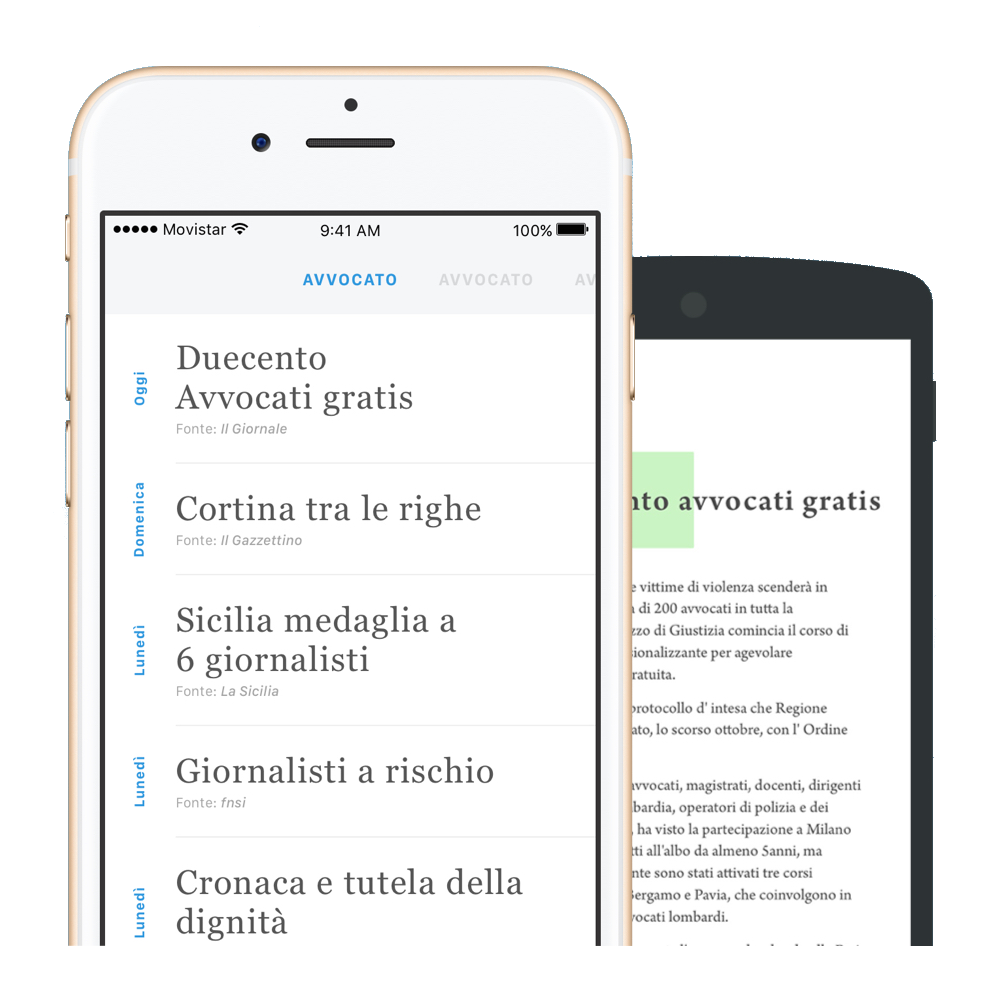
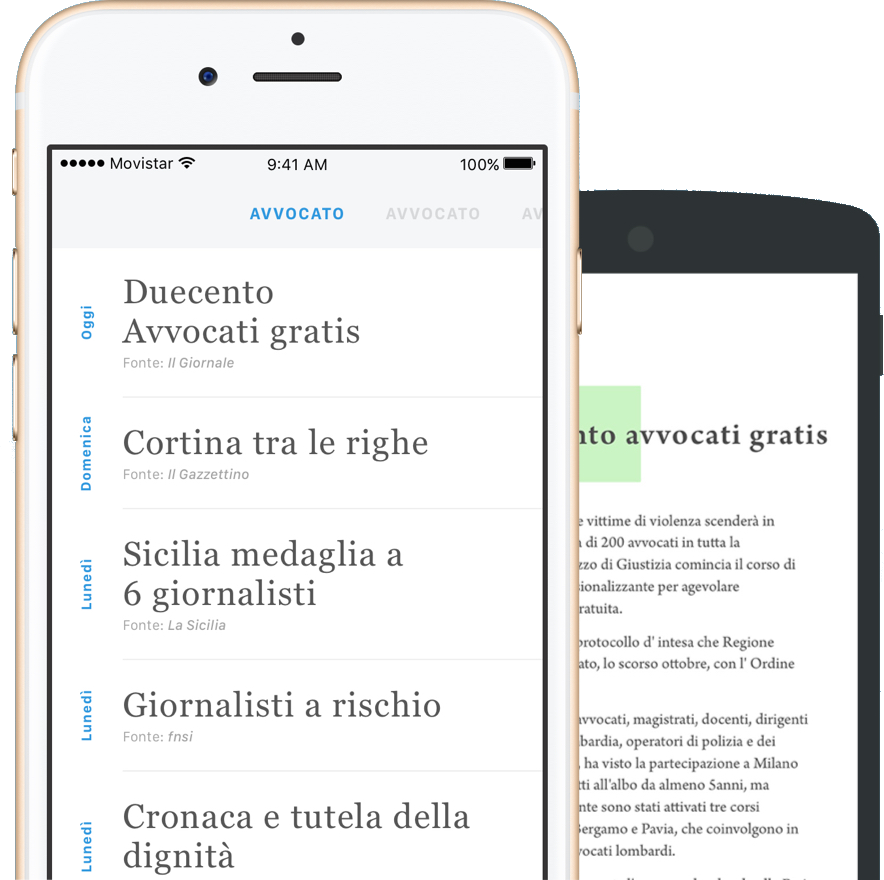
Align photos properly

Changed region(s): [[0.0, 0.0, 1.0, 1.0]]

diff --git a/index.html b/index.html
@@ -58,12 +58,12 @@
           <h1 class="text-center hero-text pb-3">Your jobs, <span class="hero-text-inner">
               <strong>our news.</strong></span>
           </h1>
-          <p class="opacity-light ps-4 ps-md-4 pb-1 pb-md-5">
+          <p class="opacity-light ms-md-5 ms-sm-0 ps-4 ps-md-5 pb-1 pb-md-5">
             Lorem ipsum dolor sit amet consectetur adipisicing elit. Doloremque error maxime accusamus aut libero,
             laborum a reiciendis inventore in ratione odit iure. Voluptatibus ad accusamus totam debitis dicta at
             pariatur?
           </p>
-          <div class="button-box d-flex gap-3 gap-md-4 ps-md-3">
+          <div class="button-box d-flex gap-3 gap-md-4 ps-md-3 justify-content-center">
             <button class="btn text-white bg-my-dark-opacity">
               <i class="mdi mdi-apple"></i>
               Download for Apple
@@ -74,9 +74,8 @@
             </button>
           </div>
         </div>
-        <div class="col-9 col-md-6">
-          <!-- TODO align bottom -->
-          <img src="bootstrap-clone-phone.png" alt="App on mobile phone" class="img-fluid">
+        <div class="col-9 col-md-6 mt-5 d-flex phone-image-container">
+          <img src=" bootstrap-clone-phone.png" alt="App on mobile phone" class="img-fluid phone-image">
         </div>
       </section>
     </div>
@@ -107,9 +106,8 @@
     </section>
     <!-- SECTION Video -->
     <section class="row bg-my-primary text-white">
-      <div class="col-12 col-md-6 mb-4 mb-md-0">
-        <!-- TODO align left -->
-        <img src="bootstrap-clone-video.png" alt="cool video" class="img-fluid">
+      <div class="col-12 col-md-6 mb-4 mb-md-0 ps-0">
+        <img src="bootstrap-clone-video.png" alt="cool video" class="img-fluid justify-self-start">
       </div>
       <div class="col-12 col-md-6 align-self-center ps-5">
         <h1 class="mb-3 mb-md-5">Lorem ipsum dolor sit amet consectetur.</h1>

diff --git a/style.css b/style.css
@@ -17,9 +17,20 @@ html {
   font-size: 4rem;
 }
 
-@media (max-width: 768px) {
+@media (max-width: 767px) {
   .hero-text {
     font-size: 2rem;
+  }
+}
+
+@media (min-width: 768px) {
+  .phone-image {
+    max-width: 30vw;
+  }
+
+  .phone-image-container {
+    justify-content: center;
+    align-items: flex-end;
   }
 }
 
